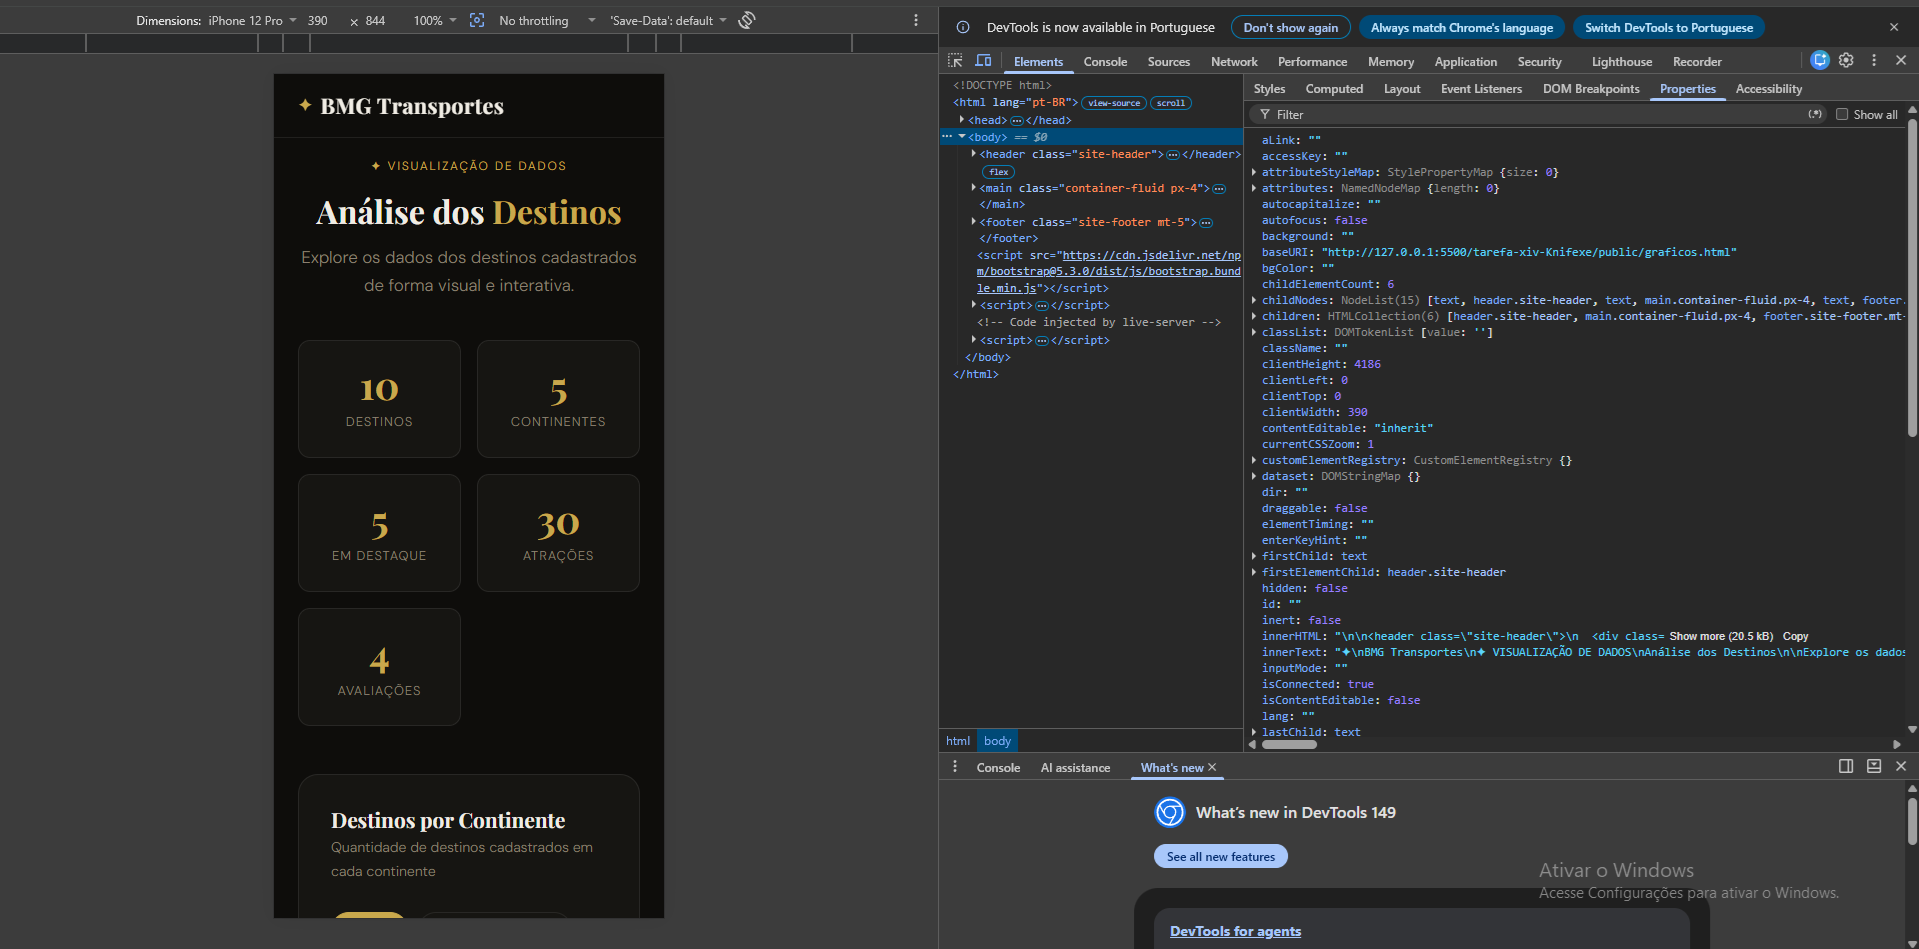
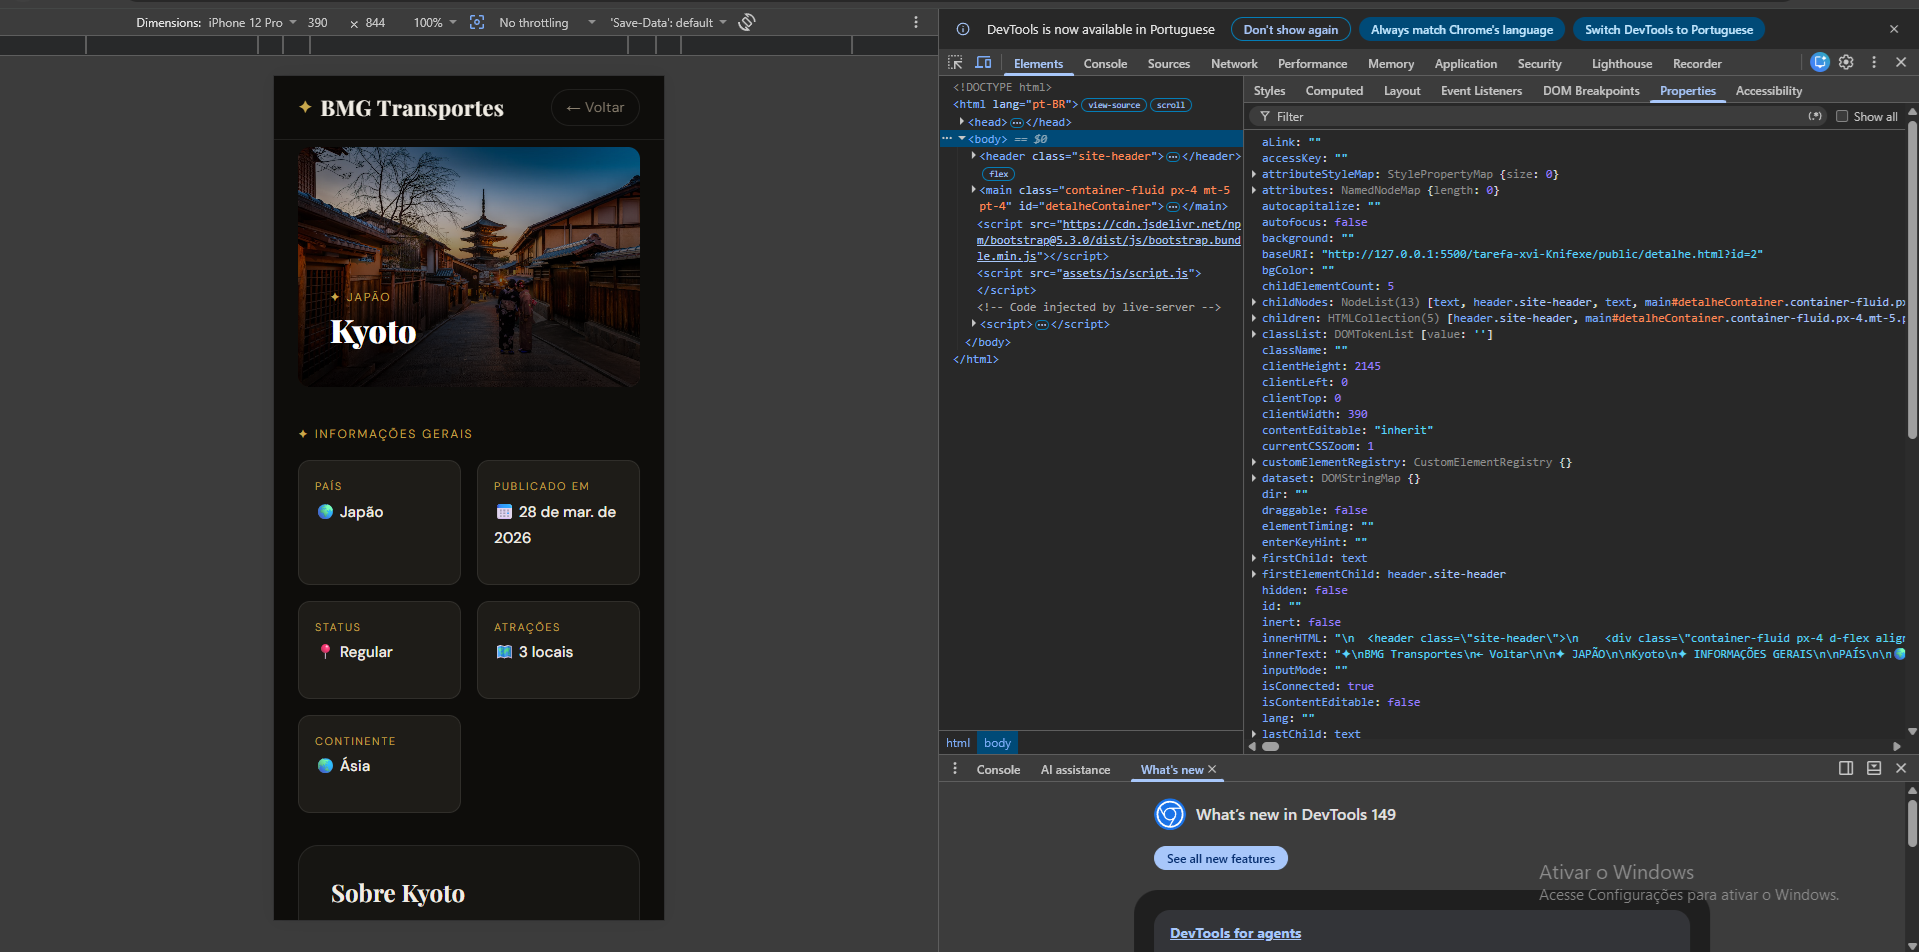
Projeto Compleoto

diff --git a/public/script.js b/public/script.js
@@ -1,0 +1,25 @@
+const data = {
+    "produtos": [
+      {
+        "id": 1,
+        "nome": "Smartphone Galaxy S23",
+        "preco": 3499.90,
+        "categoria": "Celulares",
+        "imagem": "https://example.com/imagens/galaxy-s23.jpg",
+        "descricao": "Smartphone com 128GB de armazenamento, câmera de alta resolução e excelente desempenho.",
+        "emEstoque": true
+      },
+      {
+        "id": 2,
+        "nome": "Notebook Dell Inspiron 15",
+        "preco": 4599.00,
+        "categoria": "Notebooks",
+        "imagem": "https://example.com/imagens/dell-inspiron-15.jpg",
+        "descricao": "Notebook com processador Intel i7, 16GB de RAM e SSD de 512GB, ideal para trabalho e estudos.",
+        "emEstoque": false
+      }
+    ]
+  }
+
+
+  

diff --git a/README.md b/README.md
@@ -1,148 +1,40 @@
-[![Review Assignment Due Date](https://classroom.github.com/assets/deadline-readme-button-22041afd0340ce965d47ae6ef1cefeee28c7c493a6346c4f15d667ab976d596c.svg)](https://classroom.github.com/a/SpndmZ6Q)
+[![Review Assignment Due Date](https://classroom.github.com/assets/deadline-readme-button-22041afd0340ce965d47ae6ef1cefeee28c7c493a6346c4f15d667ab976d596c.svg)](https://classroom.github.com/a/ymR3EXUy)
+# Trabalho Prático - Semana 16
 
-# BMG Transportes — Back end com CRUD no JSON Server
+Back end com CRUD no JSONServer
+Nesta atividade, você irá evoluir o projeto anterior, utilizando o servidor backend simulado com o JSON Server para fornecer a APIs RESTful a partir de um arquivo db.json. O objetivo é prover funcionalidade para que o usuário da nossa aplicação possa fazer o cadastro e alterações de dados para a entidade principal do nosso projeto, o que é conhecido como CRUD (Create, Read, Update e Delete).
 
-Projeto acadêmico da disciplina de Desenvolvimento Web que evolui o site de destinos turísticos **BMG Transportes**, substituindo os dados estáticos por um back end simulado com **JSON Server**, oferecendo uma API RESTful completa (GET, POST, PUT e DELETE) para a entidade principal do projeto: **Lugares**.
+Ao final, você deverá atualizar o README.md, incluindo:
+
+Prints da página inicial e da página de detalhes.
+Estrutura de dados utilizada no arquivo db.json.
+ 
+
+Habilidades a Serem Trabalhadas
+Montagem de ambiente de desenvolvimento com Node.js e JSON Server.
+Implementação completa do ciclo CRUD com JavaScript e API Fetch.
+Manipulação de APIs RESTful com métodos GET, POST, PUT e DELETE.
+Testes de APIs com ferramentas de produtividade
+Validação de formulários no front-end.
+Separação de responsabilidades entre front-end e back-end.
+Organização de projetos web profissionais.
+Atualização dinâmica da DOM.
+Uso das ferramentas do desenvolvedor do navegador (DevTools / Network).
+Controle de versionamento avançado com Git (commits organizados e tags).
+ 
 
 ## Informações Gerais
 
-- **Nome:** Gabriel Henrique de Souza Rodrigues
-- **Matrícula:** 913558
-- **Curso:** Engenharia de Software
+- Nome: Gabriel Henrique de Souza Rodrigues
+- Matricula: 913558
 
-## Sobre o Projeto
+## Prints do trabalho
 
-O site apresenta destinos turísticos internacionais (Paris, Kyoto, Rio de Janeiro, Bali, etc.), cada um com descrição, país, atrações e tags. A aplicação permite:
+<<  COLOQUE A IMAGEM - TELA DE CARDS DE PRODUTOS - AQUI >>
+![Imagem Card de Produtos](images/inicial.png)
 
-- **Listar** todos os destinos na página inicial (`index.html`), com carrossel de destaques;
-- **Visualizar detalhes** de um destino (`detalhe.html`);
-- **Cadastrar** um novo destino (`form.html`);
-- **Editar** um destino existente (`form.html?id=...`);
-- **Excluir** um destino, com modal de confirmação.
+<<  COLOQUE A IMAGEM - TELA DE DETALHE DO PRODUTO - AQUI >>
+![Imagem Detalhes do Produtos](images/detalhes.png)
 
-Todas as operações são feitas via **API Fetch**, consumindo o back end fake fornecido pelo **JSON Server**.
-
-## Tecnologias utilizadas
-
-- HTML5, CSS3, Bootstrap 5
-- JavaScript (ES6+), API Fetch
-- Node.js + JSON Server
-- Git/GitHub (commits e tags)
-
-## Estrutura do Projeto
-
-```
-├── db/
-│   ├── db.json          # Base de dados do JSON Server
-│   └── package.json     # Configuração e dependência do json-server
-├── public/
-│   ├── index.html        # Listagem de destinos (GET) + cards com editar/excluir
-│   ├── detalhe.html       # Detalhes de um destino (GET por id)
-│   ├── form.html          # Formulário de cadastro/edição (POST/PUT)
-│   ├── graficos.html      # Página de visualização de dados (atividade anterior)
-│   └── assets/
-│       ├── css/styles.css
-│       └── js/
-│           ├── script.js   # Listagem, detalhe e exclusão (DELETE)
-│           └── form.js     # Lógica do formulário (POST/PUT)
-└── prints/                 # Capturas de tela da API e do DevTools
-```
-
-## Como executar o projeto
-
-### 1. Instalar e iniciar o JSON Server
-
-```bash
-cd db
-npm install
-npm start
-```
-
-O servidor ficará disponível em `http://localhost:3000`, expondo os seguintes recursos:
-
-- `http://localhost:3000/lugares`
-- `http://localhost:3000/continentes`
-- `http://localhost:3000/comentarios`
-- `http://localhost:3000/favoritos`
-
-### 2. Abrir o front-end
-
-Com o JSON Server rodando, abra o arquivo `public/index.html` (recomendado usar a extensão **Live Server** do VS Code, para evitar problemas de CORS com `file://`).
-
-## Estrutura de dados (`db.json`)
-
-A entidade principal é **`lugares`**. Cada registro segue o modelo abaixo:
-
-```json
-{
-  "id": 1,
-  "nome": "Paris",
-  "descricao": "Capital francesa famosa por arte, gastronomia e arquitetura icônica.",
-  "conteudo": "Texto completo exibido na página de detalhes...",
-  "pais": "França",
-  "continente": "Europa",
-  "destaque": true,
-  "data": "2026-03-30",
-  "imagem_principal": "https://...",
-  "atracoes": [
-    { "id": 1, "nome": "Torre Eiffel", "descricao": "...", "imagem": "https://..." }
-  ],
-  "tags": ["arte", "gastronomia", "cultura", "arquitetura"]
-}
-```
-
-Também existem as entidades auxiliares `continentes`, `comentarios` e `favoritos`, mantidas da modelagem original do projeto.
-
-## Endpoints da API (CRUD)
-
-| Operação | Método | Endpoint               | Descrição                          |
-|----------|--------|-------------------------|-------------------------------------|
-| Create   | POST   | `/lugares`              | Cria um novo destino                |
-| Read     | GET    | `/lugares`              | Lista todos os destinos             |
-| Read     | GET    | `/lugares/:id`          | Detalha um destino específico       |
-| Update   | PUT    | `/lugares/:id`          | Atualiza um destino existente       |
-| Delete   | DELETE | `/lugares/:id`          | Remove um destino                   |
-
-## Prints do Trabalho
-
-> Os prints abaixo demonstram os testes da API e o funcionamento do CRUD via DevTools.
-
-### Tela inicial (listagem de destinos)
-
-`<< INSIRA AQUI o print de prints/home.png >>`
-
-### Tela de detalhes do destino
-
-`<< INSIRA AQUI o print de prints/detalhe.png >>`
-
-### Testes da API (Postman / Insomnia / Thunder Client)
-
-**GET — listar destinos**
-
-`<< INSIRA AQUI o print de prints/api-get.png >>`
-
-**POST — criar destino**
-
-`<< INSIRA AQUI o print de prints/api-post.png >>`
-
-**PUT — atualizar destino**
-
-`<< INSIRA AQUI o print de prints/api-put.png >>`
-
-**DELETE — excluir destino**
-
-`<< INSIRA AQUI o print de prints/api-delete.png >>`
-
-### DevTools — aba Network (Fetch/XHR)
-
-Print mostrando as requisições GET e POST feitas a partir do formulário, com a confirmação da inserção do registro no `db.json`:
-
-`<< INSIRA AQUI o print de prints/network.png >>`
-
----
-
-## Apresentação dinâmica e avançada de dados (atividade anterior)
-
-A página `graficos.html` apresenta visualizações interativas (gráficos, mapas) a partir dos dados de `lugares`, desenvolvida na etapa anterior do projeto.
-
-`<< Esta seção documenta a entrega da semana 14; mantida para histórico >>`
+<<  COLOQUE A IMAGEM - TELA DO CONSOLE - AQUI >>
+![Imagem Tela do Console](images/console.png)